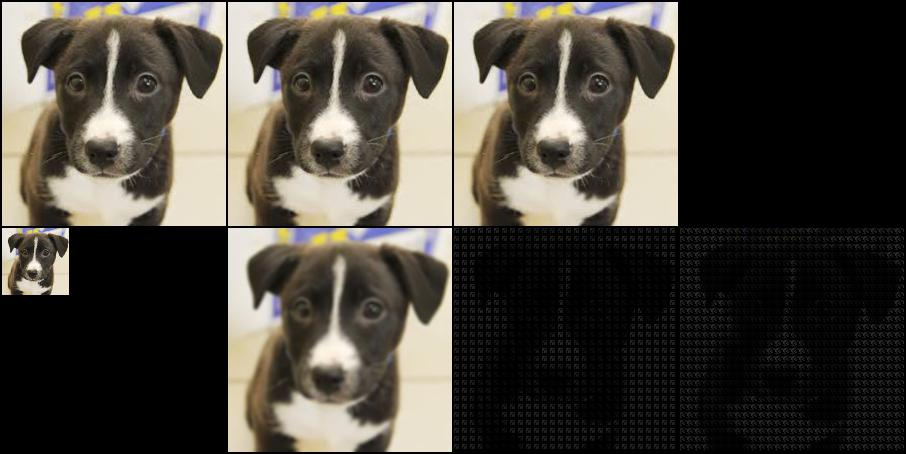
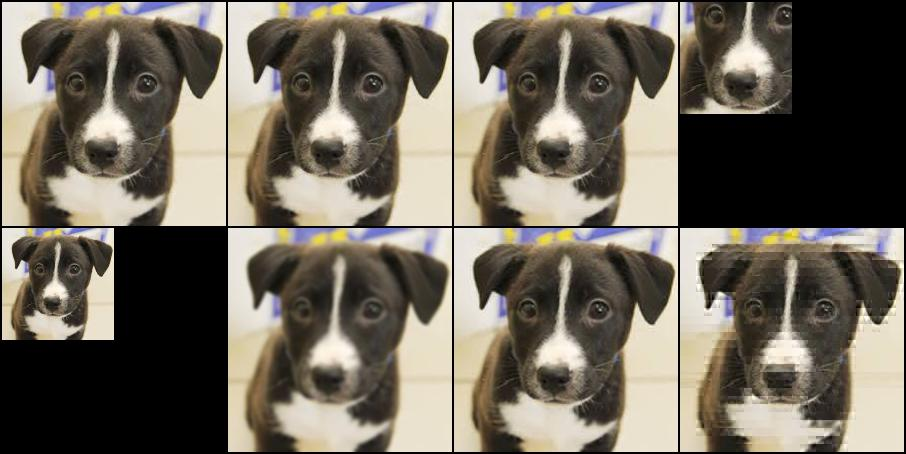
fix: crop logic

Changed region(s): [[0.4945, 0.4934, 1.0, 1.0], [0.7417, 0.0, 0.8962, 0.2775], [0.0, 0.4934, 0.1236, 0.7709]]

diff --git a/distortions.py b/distortions.py
@@ -56,7 +56,7 @@ class Cropout(Distortioner):
         w_center = random.randint(*w_center_range)
 
         mask = torch.zeros(shape)
-        mask[..., h_center-ch:h_center+ch, w_center-cw:w_center+cw] = 1
+        mask[..., h_center-ch//2:h_center+ch//2, w_center-cw//2:w_center+cw//2] = 1
         return mask
 
 
@@ -66,16 +66,13 @@ class Crop(Distortioner):
 
     def __call__(self, i_co, i_en: torch.FloatTensor) -> torch.FloatTensor:
         if self.p == 1: return i_en
-        h, w, hc, wc = self._sample_params(i_co.shape)
-        return i_en[..., hc-h : hc+h, wc-w : wc+w]
+        h, w, hc, wc = self._sample_params(i_en.shape)
+        return i_en[..., hc-h//2 : hc+h//2, wc-w//2 : wc+w//2]
     
     def _sample_params(self, shape: tuple) -> typing.Tuple[int, int, int, int]:
         _, _, h, w = shape
-        area = h * w
-        crop_area = area * self.p
+        ch, cw = int(h*self.p), int(w*self.p)
 
-        ch = int(max([random.random() * h, crop_area / w + 1]))
-        cw = int(max([crop_area / ch, 1]))
         h_center_range = (ch//2 + 1, h - (ch//2 + 1))
         w_center_range = (cw//2 + 1, w - (cw//2 + 1))
         h_center = random.randint(*h_center_range)
@@ -188,7 +185,8 @@ class JPEGMask(JPEGCompression):
 
 class JPEGDrop(JPEGCompression):
     def __init__(self):
-        quantization_table_y = torch.tensor([
+        # quantization tables
+        qt_y = torch.tensor([
             16, 11, 10, 16, 24,  40,  51,  61,
             12, 12, 14, 19, 26,  58,  60,  55,
             14, 13, 16, 24, 40,  57,  69,  56,
@@ -198,7 +196,7 @@ class JPEGDrop(JPEGCompression):
             49, 64, 78, 87, 103, 121, 120, 101,
             72, 92, 95, 98, 112, 100, 103, 99,
         ], dtype=torch.float64).view(8, 8)
-        quantization_table_uv = torch.tensor([
+        qt_uv = torch.tensor([
             17, 18, 24, 47, 99, 99, 99, 99,
             18, 21, 26, 66, 99, 99, 99, 99,
             24, 26, 56, 99, 99, 99, 99, 99,
@@ -208,8 +206,8 @@ class JPEGDrop(JPEGCompression):
             99, 99, 99, 99, 99, 99, 99, 99,
             99, 99, 99, 99, 99, 99, 99, 99,
         ], dtype=torch.float64).view(8, 8)
-        self.prob_y = quantization_table_y.div((quantization_table_y.max()+1.0))
-        self.prob_uv = quantization_table_uv.div(100.0)
+        self.prob_y = qt_y.sub(qt_y.min()).div(qt_y.max() - qt_y.min() + 1.0)
+        self.prob_uv = qt_uv.sub(qt_uv.min()).div(qt_uv.max() - qt_uv.min() + 1.0)
         super().__init__()
     
     def _create_compression_kernel(self):
